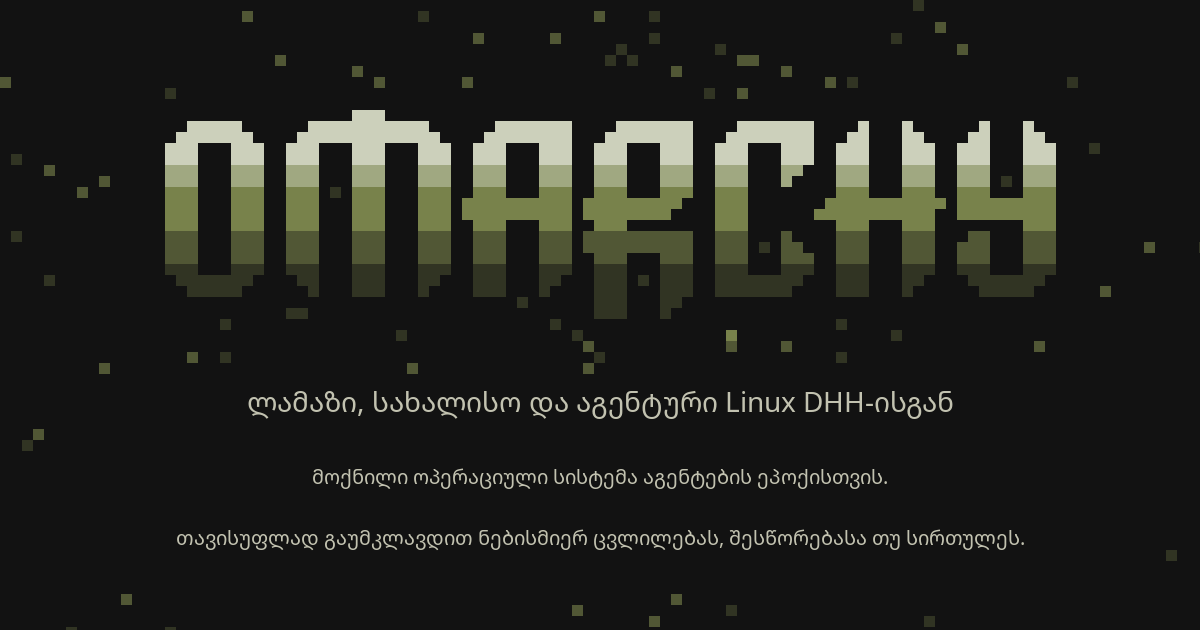
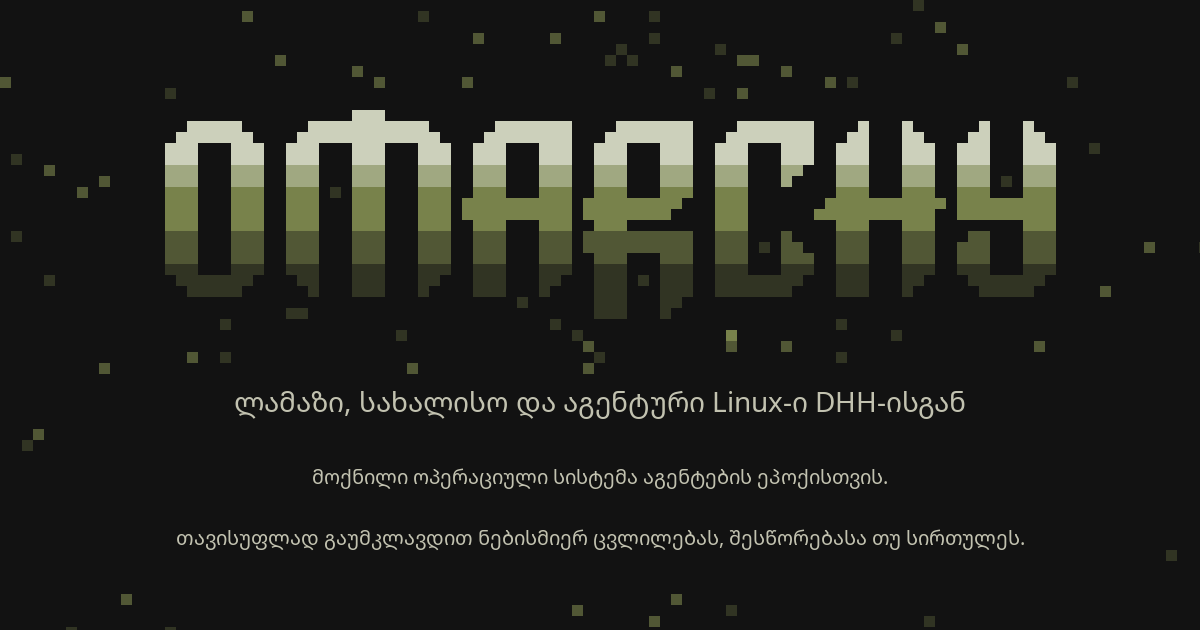
feat(i18n): apply review notes for homepage intro, doctrine, and quotes

Changed region(s): [[0.185, 0.6032, 0.8017, 0.6635]]

diff --git a/REVIEW_NOTES.md b/REVIEW_NOTES.md
@@ -13,26 +13,16 @@ Whenever you're ready for me to apply your changes, just type in chat:
 - Hero subtitle: Change "მოირგეთ თქვენი სურვილისამებრ..." to "..."
 - Features section: Change "X" to "Y"
 -->
-"Beautiful, fun & agentic Linux by DHH" should be "ლამაზი, სახალისო და აგენტური Linux-ი DHH-ისგან"
+### Applied (2026-09-13)
+- [x] **Page Title:** `"Beautiful, fun & agentic Linux by DHH"` → `ლამაზი, სახალისო და აგენტური Linux-ი DHH-ისგან`
+- [x] **Intro Paragraph 1:** Linux chore to setup → `Linux-ის დაყენება ადრე დამღლელი რუტინა იყო — რთული გასამართად და თავიდანვე დამაბნეველი არჩევანით სავსე. Omarchy ამ ყველაფერს აგვარებს ელვისებურად სწრაფი ინსტალაციით, აგენტებით, რომლებიც ყველა პრობლემას აგვარებენ, და ფანტასტიკური საწყისი პარამეტრებით, რაც პირდაპირ გაძლევთ სრულად ფუნქციურ და ვიზუალურად დახვეწილ სისტემას.`
+- [x] **Intro Paragraph 2:** Oma is for omakase → `Oma ნიშნავს „ომაკასეს“ (omakase), ანუ შეფის არჩევანს: ჩვენ ვარჩევთ ხელსაწყოებს და ვასწორებთ დეტალებს, რათა პირდაპირ საქმეს შეუდგეთ. თუმცა, ეს თქვენი კომპიუტერია. თქვენ თავისუფლად შეგიძლიათ ყველაფრის შეცვლა.`
+- [x] **Intro Paragraph 3:** Behind it all is the Omarchy Doctrine → `ამ ყველაფრის უკან დგას Omarchy-ის დოქტრინა: ათი პრინციპი ნერდების გასაერთიანებლად, აგენტების მისასალმებლად და იდეალური კომპიუტერის შესაქმნელად. ჯერ მიზნამდე არ მივსულვართ, მაგრამ უკვე შეგვიძლია ყველაფრის გამოსწორება.`
+- [x] **Vibe Code Callout:** `"When you can vibe code whatever app comes to your mind, you should be able to vibe code your operating system."` → `როცა ნებისმიერი აპლიკაციის „vibe code“-ით შექმნა შეგიძლია, რაც კი თავში მოგივა, შენი ოპერაციული სისტემის „vibe code“-იც უნდა შეგეძლოს.`
+- [x] **Install Speed Callout:** `"Be up and running in as little as 35 seconds on the fastest machines, and in less than two minutes on the majority of computers."` → `დაიწყეთ მუშაობა სულ რაღაც 35 წამში ყველაზე სწრაფ მოწყობილობაზე და ორ წუთზე ნაკლებ დროში კომპიუტერების უმეტესობაზე.`
 
-THIS BIG BLOCK OF TEXT
-Linux used to be a chore to setup, difficult to debug, and full of confusing upfront choices. Omarchy solves all of it with a lightning fast installation, agents that debug all issues, and fantastic defaults that give you a fully functioning system that looks amazing out of the box.
-
-Oma is for omakase, chef's choice: we pick the tools and tune the details, so you can get straight to work. But this is your computer. You're free to change everything.
-
-Behind it all is the Omarchy Doctrine: ten principles for uniting the nerds, welcoming the agents, and building the perfect computer. We're not there yet, but we can fix everything now. 
-
-= 
-
-Linux-ის დაყენება ადრე დამღლელი რუტინა იყო — რთული გასამართად და თავიდანვე დამაბნეველი არჩევანით სავსე. Omarchy ამ ყველაფერს აგვარებს ელვისებურად სწრაფი ინსტალაციით, აგენტებით, რომლებიც ყველა პრობლემას აგვარებენ, და ფანტასტიკური საწყისი პარამეტრებით, რაც პირდაპირ გაძლევთ სრულად ფუნქციურ და ვიზუალურად დახვეწილ სისტემას.
-
-Oma ნიშნავს „ომაკასეს“ (omakase), ანუ შეფის არჩევანს: ჩვენ ვარჩევთ ხელსაწყოებს და ვასწორებთ დეტალებს, რათა პირდაპირ საქმეს შეუდგეთ. თუმცა, ეს თქვენი კომპიუტერია. თქვენ თავისუფლად შეგიძლიათ ყველაფრის შეცვლა.
-
-ამ ყველაფრის უკან Omarchy-ის დოქტრინა დგას: ათი პრინციპი ნერდების გასაერთიანებლად, აგენტების მისასალმებლად და იდეალური კომპიუტერის შესაქმნელად. ჯერ მიზნამდე არ მივსულვართ, მაგრამ უკვე შეგვიძლია ყველაფრის გამოსწორება.
-
-When you can vibe code whatever app comes to your mind, you should be able to vibe code your operating system. = როცა ნებისმიერი აპლიკაციის „vibe code“-ით შექმნა შეგიძლია, რაც კი თავში მოგივა, შენი ოპერაციული სისტემის „vibe code“-იც უნდა შეგეძლოს.
-
-Be up and running in as little as 35 seconds on the fastest machines, and in less than two minutes on the majority of computers. = დაიწყეთ მუშაობა სულ რაღაც 35 წამში ყველაზე სწრაფ მოწყობილობაზე და ორ წუთზე ნაკლებ დროში კომპიუტერების უმეტესობაზე.
+### New / Pending Review Notes
+<!-- Add any adjustments for the main landing page here -->
 
 
 Navigation & Header / Footer

diff --git a/PROGRESS.md b/PROGRESS.md
@@ -1,10 +1,11 @@
 # Progress
 
-**Current phase:** Phase 6 — Verification, Local Preview & Review in progress. Launched local preview (`http://localhost:3115`), added `build:ka` and `dev:ka` scripts to `package.json`, created `REVIEW_NOTES.md`. Razmik began manual visual review of the homepage and refined terminology in `src/i18n/messages/ka.json` and `src/i18n/ka/news.json` up to the "It even runs Windows!" section. All 82 tests pass, strict translation check passes, and `dist/ka` rebuilt cleanly.
+**Current phase:** Phase 6 — Verification, Local Preview & Review in progress. Applied review notes from `REVIEW_NOTES.md` for homepage title, intro story paragraphs (chore to setup, omakase, Omarchy Doctrine), vibe coding quote, and 35-second install speed. All 82 tests pass, strict translation check passes, and `dist/ka` rebuilt cleanly.
 
 **Next task:** Continue manual visual review from "It even runs Windows!" onward, complete remaining sections of the homepage, secondary pages, and news, then prepare upstream PR for `omacom/omarchy-site`.
 
 ## Done
+- 2026-09-13 — Phase 6 (In Progress): Applied review notes from `REVIEW_NOTES.md` to `src/i18n/messages/ka.json` (fine-tuned site title with grammatical `-ი`, refined intro story on Linux setup, omakase, and Omarchy Doctrine, natural phrasing for vibe coding and 35-second install speed). Rebuilt `dist/ka`, updated social card PNGs, verified with 82 passing tests and strict translation checks. Marked items applied in `REVIEW_NOTES.md`.
 - 2026-09-12 — Phase 6 (In Progress): Ran local preview on port 3115, added `build:ka` and `dev:ka` convenience scripts in `package.json`, and created `REVIEW_NOTES.md`. Razmik manually reviewed and refined Georgian copy across the homepage up to "It even runs Windows!" (including natural phrasing for terms like stack -> დასტა, community plugins, patron terminology, and installation guides). Verified with 82 passing tests, strict translation check, and updated static build `dist/ka`.
 - 2026-09-12 — Phase 5: Translated all 26 news articles into natural Georgian (`src/i18n/ka/news.json` and `src/i18n/ka/news/*.html`), strictly preserved all HTML structure, tags, attributes, links, images, and code blocks, applied explicit USD formatting, verified with 0 pending news items, strict translation check (`npm run check:translations -- --strict-site --strict-news`), 82 passing tests, and successful `npm run build:locale -- ka`.
 - 2026-09-12 — Phase 4: Translated all 118 authored HTML prose blocks in `src/i18n/ka/blocks.json` into natural Georgian, preserved all HTML tags, attributes, and links, applied explicit USD formatting, verified with 0 pending site items, 82 passing tests, and successful `npm run build:locale -- ka`.
